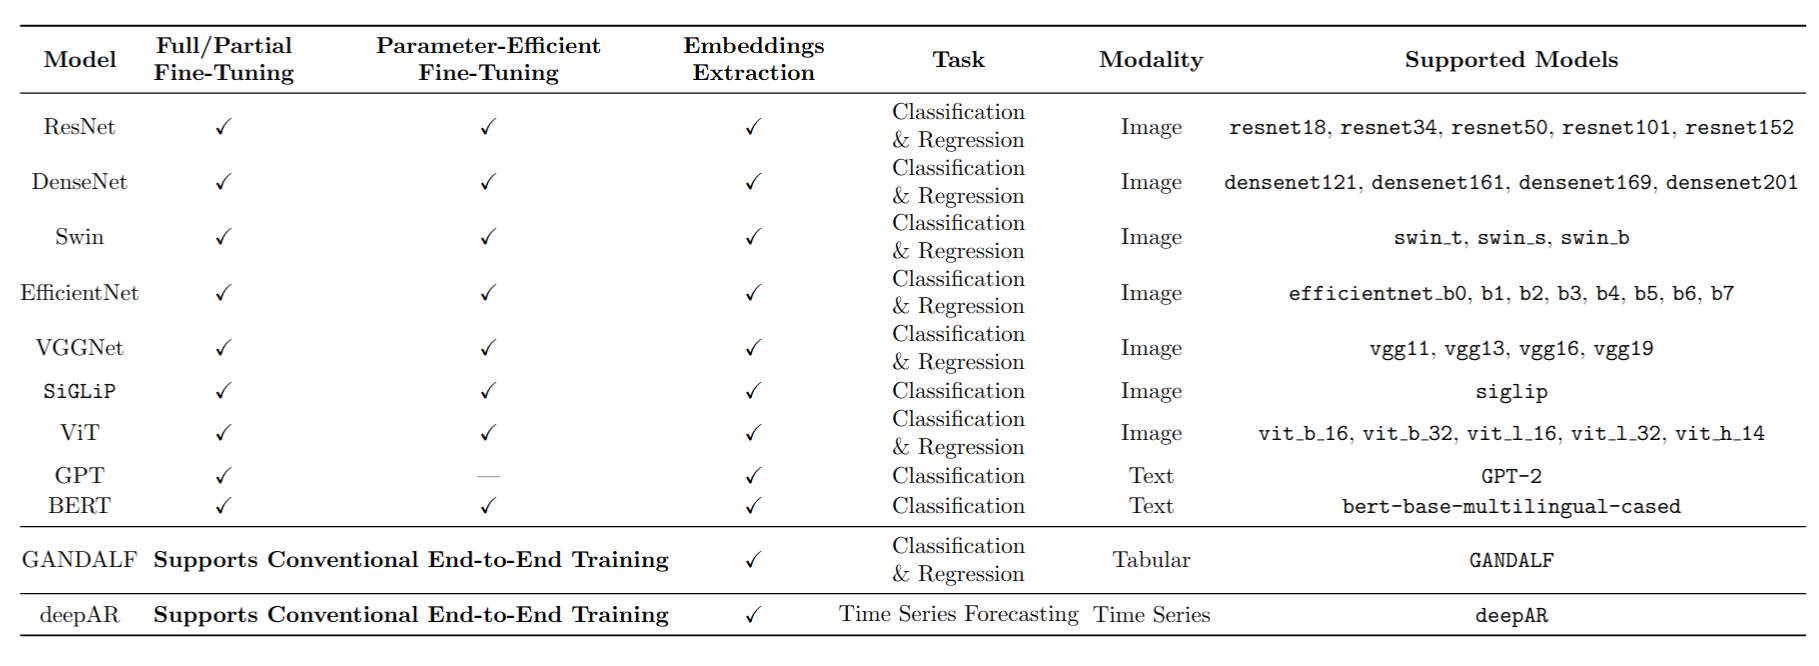
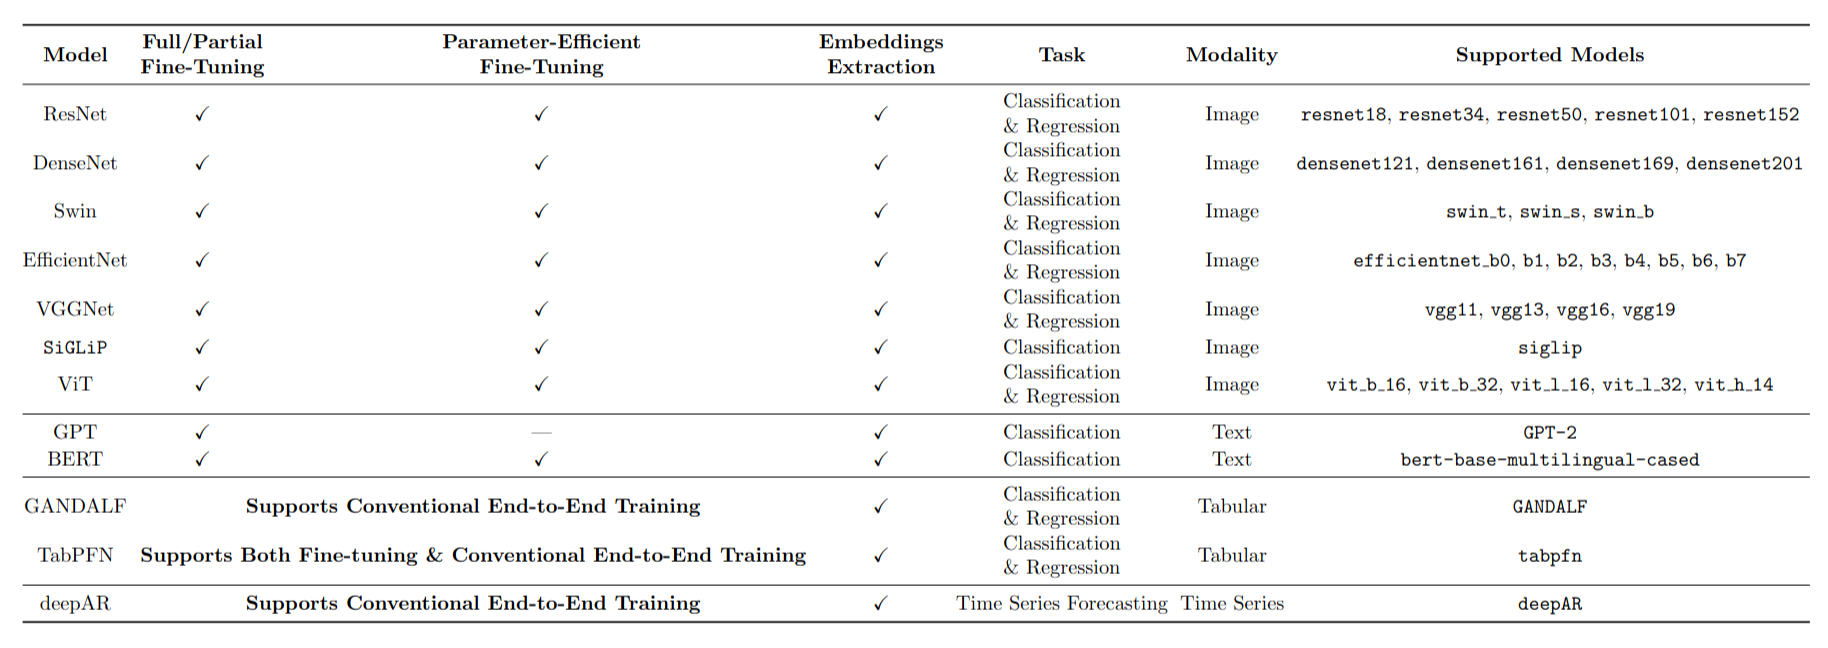
update docs for TabPFN

diff --git a/evaluators/tabular/evaluate_tabpfn.py b/evaluators/tabular/evaluate_tabpfn.py
@@ -115,10 +115,10 @@ def evaluate_tabpfn(
         
         EVAL_OUTPUT_DIR = (out / f"eval_output_{model_str}_{mode}_{UNIQUE_ID}")
         args.save_args(EVAL_OUTPUT_DIR)
-        with open(EVAL_OUTPUT_DIR / "tabpfn_metrics.json", 'w') as f:
+        with open(EVAL_OUTPUT_DIR / "full_metrics.json", 'w') as f:
             json.dump(result_dic, f, indent=4)
         save_process_times(epoch_times="For TabPFN we only track total time", total_duration="N/A", outdir=EVAL_OUTPUT_DIR, process="evaluation")
-        print(f"Evaluation results saved to {EVAL_OUTPUT_DIR / 'tabpfn_metrics.json'}")
+        print(f"Evaluation results saved to {EVAL_OUTPUT_DIR / 'full_metrics.json'}")
 
         return result_dic
 

diff --git a/handlers/split_dataset.py b/handlers/split_dataset.py
@@ -57,9 +57,7 @@ def split_dataset(train_size: float, val_size: float, test_size:float, df_path: 
     test_dataset_path = split_dir / f"test_split.parquet"
     
     df = pd.read_parquet(df_path)
-
-    df = df[:10]
-
+    
     split_dir.mkdir(parents=True, exist_ok=True)
 
     # for convenience and as part of the preprocessing, deeptune will rename the target column of prediction to labels.

diff --git a/docs/source/functionalities/handlers/training.rst b/docs/source/functionalities/handlers/training.rst
@@ -118,7 +118,7 @@ Since **DeepTune** currently supports only two models for text classification, t
         --learning_rate <float> \
         --added_layers <int> \
         --embed_size <int> \
-        [--fixed-seed]
+        [--fixed-seed] \
         [--freeze_backbone]
 
 .. note::
@@ -231,6 +231,29 @@ Currently, **DeepTune** offers only support for DeepAR model to provide predicti
 .. note::
     For more information about these arguments, you may refer to the `PyTorch Forecasting documentation <https://pytorch-forecasting.readthedocs.io/en/v1.3.0/api/pytorch_forecasting.models.deepar._deepar.DeepAR.html>`_.
 
+
+TabPFN Support
+-------------
+
+Currently, **DeepTune** offers support for TabPFN (Tabular Prior-data Fitted Network) model to get fine-tuned or trained from scratch on your own tabular data. You can read more about TabPFN through the paper `here <https://arxiv.org/pdf/2511.08667>`_. We project to expand the support to include the time-series modality in the near future.
+
+In order to run TabPFN in **DeepTune**, you can use the following CLI structure:
+.. code-block:: console
+
+    $ python -m trainers.tabular.train_tabpfn \
+    --train_df <str> \
+    --val_df <str> \
+    --batch_size <int> \
+    --num_epochs <int> \
+    --out <str> \
+    --mode <cls_or_reg> \
+    --target_column <str> \
+    --[finetuning-mode] \
+
+
+.. note::
+    By default, TabPFN will be used in training from scratch mode. To enable fine-tuning on your dataset, you need to add the `--finetuning-mode` switch to the previous command.
+
 Training Output
 ---------------
 
@@ -263,7 +286,7 @@ After training completes, you may find the results in the directory specified wi
 
 
 
-For text GPT-2 and BERT models, instead of the ``model_weights.pth`` file, you may find a whole subdirectory containing the tokenizer and model weights files.
+For text GPT-2 and BERT models, instead of the ``model_weights.pth`` file, you may find a whole subdirectory containing the tokenizer and model weights files. For TabPFN models, you may find the model weights stored in `.tabpfn` (if you are training from scratch) or `.joblib` (or if you are fine-tuning) format instead of `.pth`.
 
 .. code-block:: console
 

diff --git a/docs/source/tutorials/firstrun.rst b/docs/source/tutorials/firstrun.rst
@@ -23,6 +23,7 @@ The easiest way to get started with **DeepTune** is to use the unified pipeline 
         [--raw-data] \
         [--freeze_backbone] \
         [--time_idx_column] <str> \
+        [--finetuning-mode]
 
 .. list-table::
    :widths: 25 75
@@ -53,6 +54,8 @@ The easiest way to get started with **DeepTune** is to use the unified pipeline 
         - *(Flag)* Indicates whether to freeze the backbone of the model during training.
     * - ``--time_idx_column <str>``
         - Name of the time index column in your time-series dataset. *Required only for time-series modality.*
+    * - ``--finetuning-mode``
+        - *(Flag)* Enables fine-tuning mode for TabPFN models. *Required only for tabular modality when using TabPFN.*
 .. note::
 
    You only need to specify the ``--num_classes`` argument for image classification tasks and with Multilingual BERT. It is not needed for other time-series, tabular models, and GPT-2 as they handle this internally.
@@ -153,7 +156,7 @@ To simplify the initial experience with **DeepTune**, a set of predefined hyperp
 - **Train/Validation/Test Split Ratios**: 70% / 10% / 20%
 - **Task Mode**: Classification (`cls`) by default
 - **Disable Numerical Encoding**: False (i.e., numerical encoding is applied by default as part of preprocessing).
-- **GFUL Stages**: 6 (applicable for GANDALF only)
+- **GFLU Stages**: 6 (applicable for GANDALF only)
 
 
 Unified CLI Output Structure

diff --git a/docs/source/functionalities/handlers/embedding.rst b/docs/source/functionalities/handlers/embedding.rst
@@ -104,9 +104,23 @@ The following is the generic CLI structure of running DeepTune for embeddings ex
 
     Similar to the tabular modality, DeepAR relies on the standard training scheme without applying transfer learning. Therefore, we do not use Parameter Efficient Fine-Tuning (PeFT), Fine-Tuning, or Pretrained options. Indeed, we only use the already trained model's weights to obtain the embeddings.
 
+TabPFN Support
+--------------
 
+For TabPFN embeddings extraction, the generic CLI structure is as follows:
+.. code-block:: console
 
+    $ python -m embed.tabular.tabpfn_embeddings \
+    --train_df <path_to_train_df> \
+    --eval_df <path_to_eval_df> \
+    --model_weights <str> \
+    --target_column <str> \
+    --out <str> \
+    --mode <cls_or_reg> \
+    [--finetuning-mode]
 
+.. note::
+    Unlike other models, TabPFN does not require specification of batch size during embeddings extraction. Moreover, the user have to feed both training and evaluation dataframes to ensure proper functioning of the model as per its design characterstics.
 
 Embeddings Output
 -----------------

diff --git a/docs/source/functionalities/handlers/evaluation.rst b/docs/source/functionalities/handlers/evaluation.rst
@@ -107,6 +107,20 @@ The generic CLI structure of running **DeepTune** for evalaution of time series 
     --static_reals <list> \
     --group_ids <str> \
 
+TabPFN Support
+--------------
+
+The generic CLI structure of running **DeepTune** for evalaution of tabular datasets using TabPFN is:
+
+.. code-block:: console
+
+    $ python -m evaluators.tabular.evaluate_tabpfn \
+    --eval_df <str> \
+    --model_weights <str> \
+    --target_column <str> \
+    --out <str> \
+    [--finetuning-mode]
+
 Evaluation Output
 -----------------
 

diff --git a/docs/source/index.rst b/docs/source/index.rst
@@ -110,5 +110,5 @@ If you make use of **DeepTune**, please cite the repository as follows:
    title   = {DeepTune: Cutting-edge Tool automating state-of-the-art deep learning models for cross-modal applications},
    year = {2025},
    url = {https://github.com/moayadeldin/deeptune},
-   version = {1.0.0}
+   version = {1.1.0}
    }
